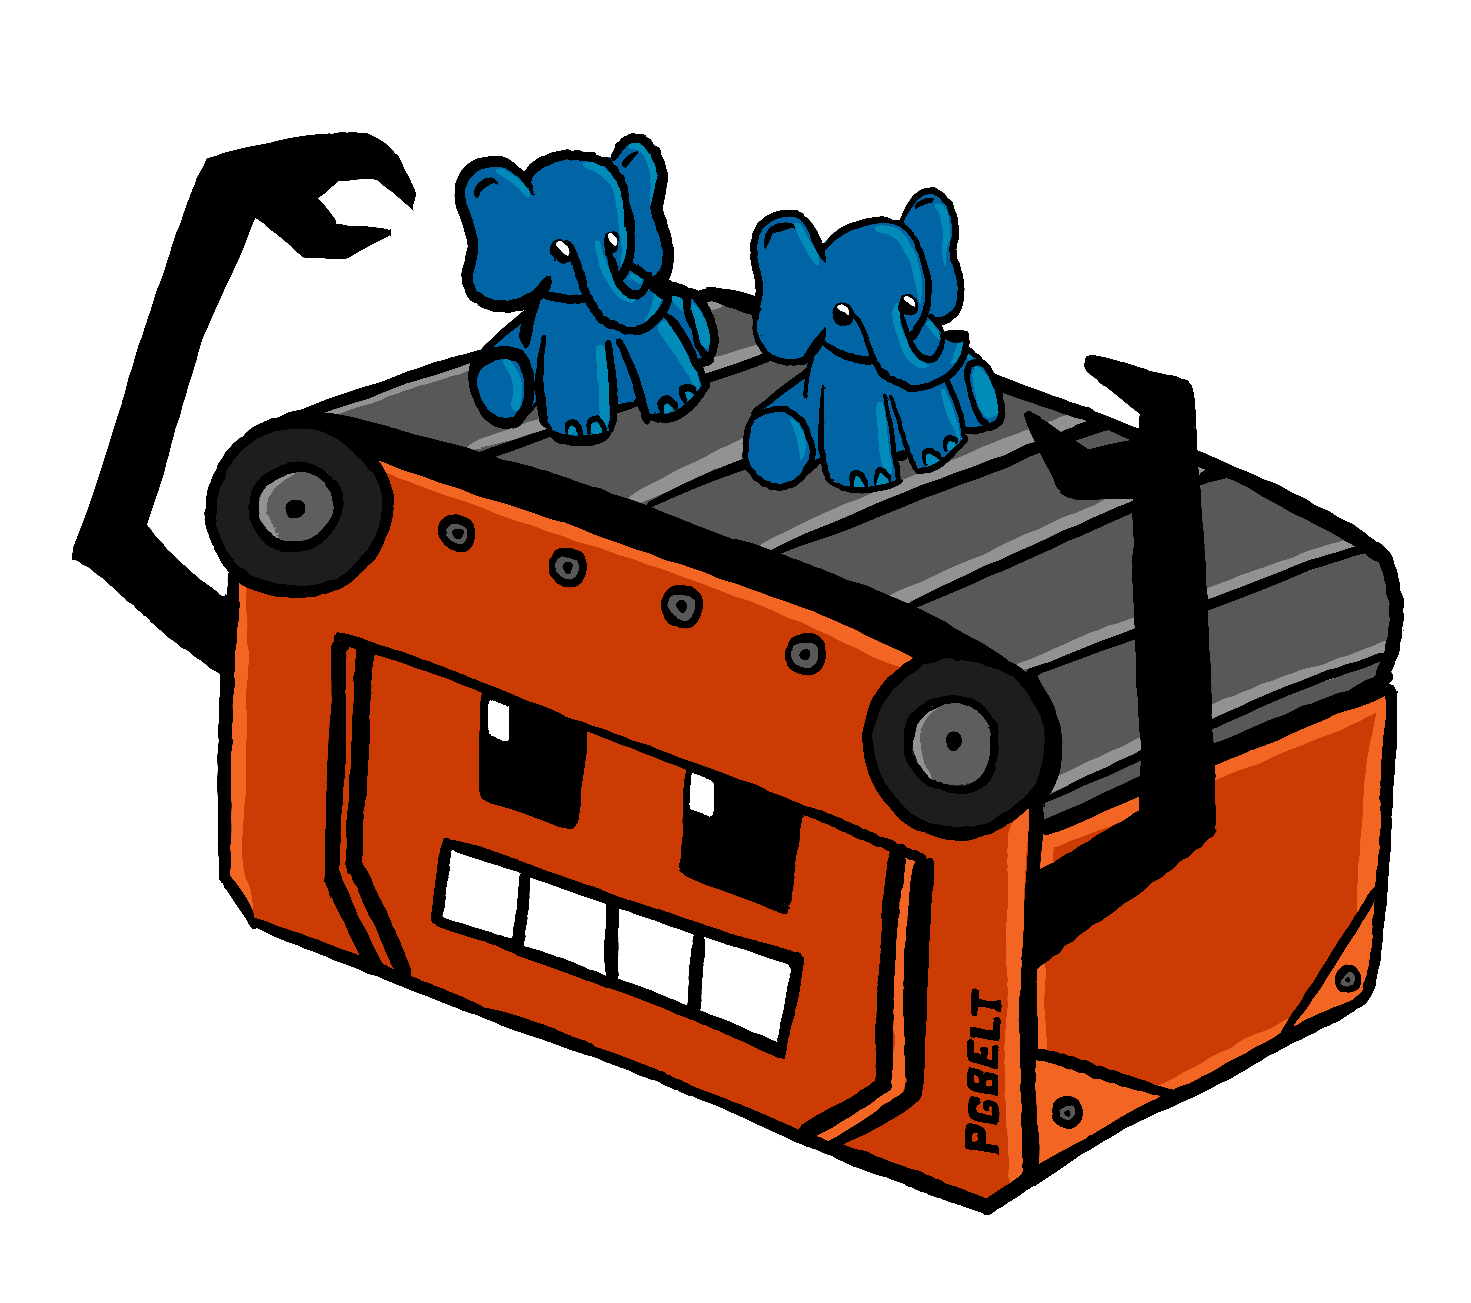
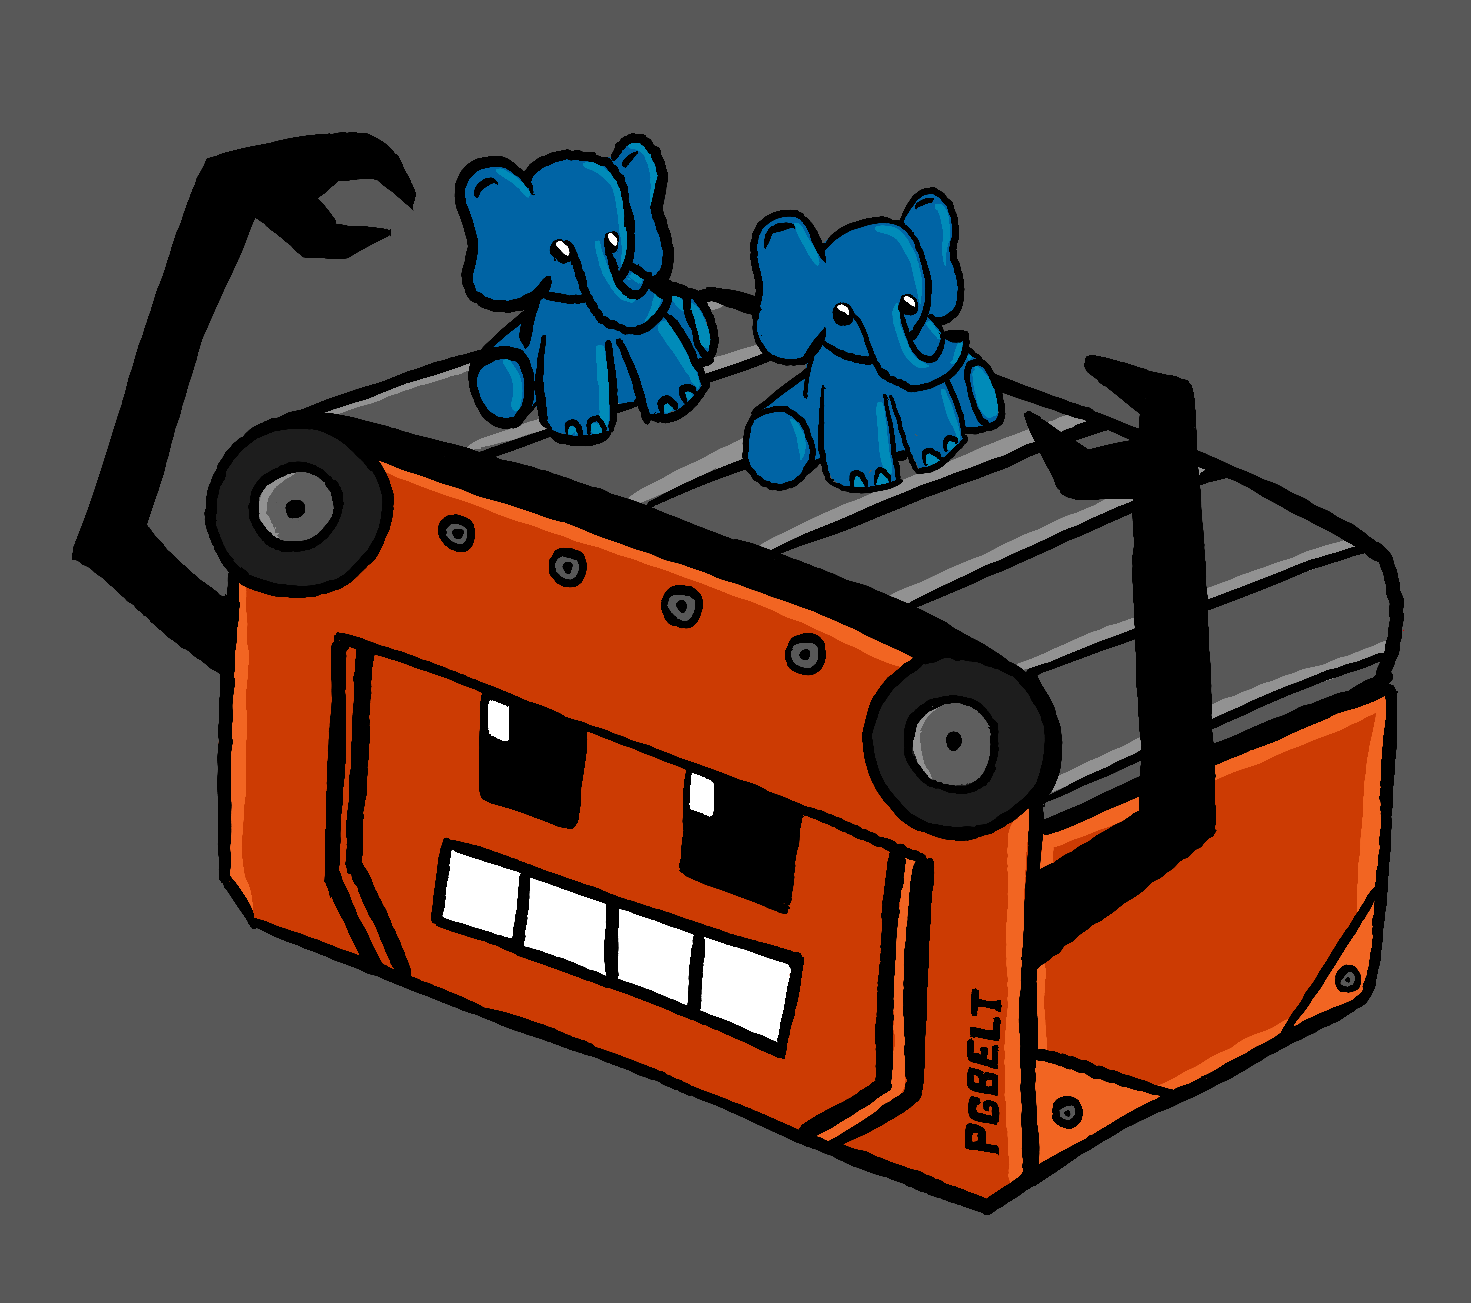
doc: change image and resize for README

diff --git a/README.md b/README.md
@@ -1,6 +1,6 @@
 # Pgbelt
 
-![Pgbelt Mascot!](https://github.com/Autodesk/pgbelt/blob/952faac0db2ac2a464c3fecf3ed2f771410d72b7/pgbelt.png?raw=true)
+![Pgbelt Mascot!](https://github.com/Autodesk/pgbelt/blob/952faac0db2ac2a464c3fecf3ed2f771410d72b7/pgbelt.png?raw=true | width=150)
 
 <p align="center">
     <a href="https://github.com/autodesk/pgbelt" target="_blank">
